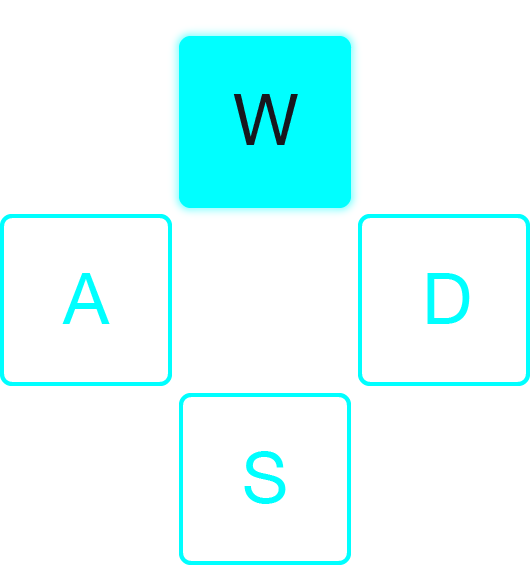
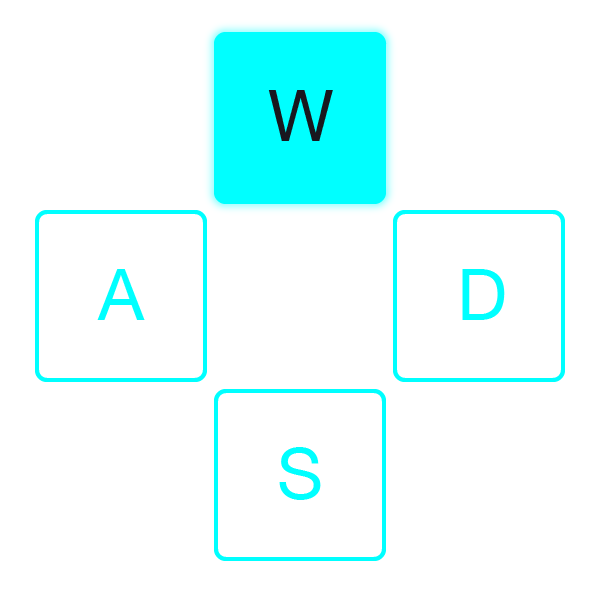
Create event listener for coloring controls on key stroke

diff --git a/lib/index.js b/lib/index.js
@@ -1,9 +1,55 @@
 const Game = require('./Game.js');
 const canvas = document.getElementById('game');
 const context = canvas.getContext('2d');
-const game = new Game(context, canvas.width, canvas.height)
+const game = new Game(context, canvas.width, canvas.height);
+
+const playerOneControls = document.getElementById('D_Pad_One');
+const playerTwoControls = document.getElementById('D_Pad_Two');
 
 document.addEventListener('keydown', game.firstBike.pOneDirection);
 document.addEventListener('keydown', game.secondBike.pTwoDirection);
+
+document.addEventListener('keydown', function(e) {
+    if (e.keyCode == 65) {
+      playerOneControls.src = "images/PlayerOneA.png";
+    }
+
+    //up
+    if (e.keyCode == 87) {
+      playerOneControls.src = "images/PlayerOneW.png";
+    }
+
+    //right
+    if (e.keyCode == 68) {
+      playerOneControls.src = "images/PlayerOneD.png";
+    }
+
+    //down
+    if (e.keyCode == 83) {
+      playerOneControls.src = "images/PlayerOneS.png";
+    }
+    
+    if (e.keyCode == 37) {
+      playerTwoControls.src = "images/PlayerTwoLeft.png";
+    }
+
+    //up
+    if (e.keyCode == 38) {
+      playerTwoControls.src = "images/PlayerTwoUp.png";
+    }
+
+    //right
+    if (e.keyCode == 39) {
+      playerTwoControls.src = "images/PlayerTwoRight.png";
+    }
+
+    //down
+    if (e.keyCode == 40) {
+      playerTwoControls.src = "images/PlayerTwoDown.png";
+    }
+  }
+);
+document.addEventListener('keydown', game.secondBike.pTwoDirection);
+
 document.addEventListener('click', game.gameStart);
 

diff --git a/index.html b/index.html
@@ -17,7 +17,7 @@
       <h1 class="player1__name">PLAYER 1</h1>
       <h2 class="player1_h2">LIVES: <span class="player1_lives">5</span></h2>
       <div>
-        <img class="D_Pad" src="images/PlayerOneDefault.png">
+        <img id="D_Pad_One" src="images/PlayerOneDefault.png">
       </div>
     </aside>
     <canvas id="game"
@@ -28,7 +28,7 @@
       <h1 class="player2__name">PLAYER 2</h1>
       <h2 class="player2_h2">LIVES: <span class="player2_lives">5</span></h2>
       <div>
-        <img class="D_Pad" src="images/PlayerTwoDefault.png">
+        <img id="D_Pad_Two" src="images/PlayerTwoDefault.png">
       </div>
     </aside>
   </div>

diff --git a/lib/style.css b/lib/style.css
@@ -43,8 +43,13 @@ body {
   text-align: center;
 }
 
-.D_Pad {
-  width: 70%;
+#D_Pad_One {
+  width: 80%;
+  margin-top: 40px;
+}
+
+#D_Pad_Two {
+  width: 80%;
   margin-top: 40px;
 }
 

diff --git a/lib/Bike.js b/lib/Bike.js
@@ -53,6 +53,7 @@ class Bike {
     if (e.keyCode == 38) {
       e.preventDefault();
       this.changeDirection(0, -3);
+  
     }
 
     //right
